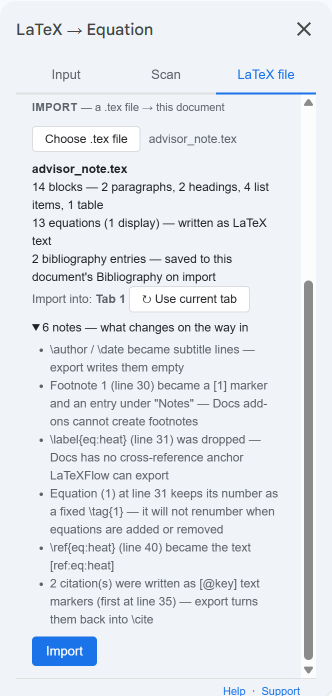
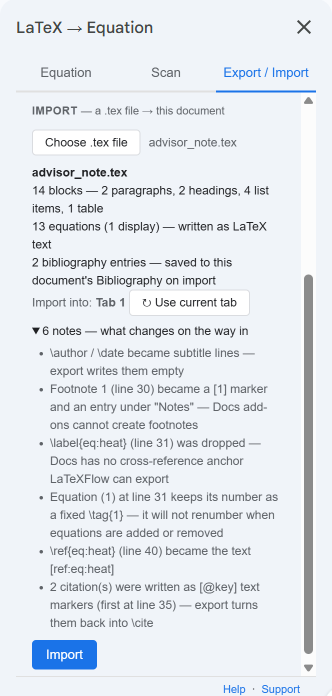
img(11-08): 04-after-scan added (Scan > Convert All, 13/13), 02-import-pick re-shot on v17 (Export / Import tab) - R182
Claude-Session: https://claude.ai/code/session_01WtnKZasBhqLtdkMYmNon2T

diff --git a/_posts/2026-11-08-open-tex-file-in-google-docs.md b/_posts/2026-11-08-open-tex-file-in-google-docs.md
@@ -9,7 +9,7 @@ description: "지도교수님이나 공저자가 .tex 파일을 보냈는데 나
 ---
 <!-- R138: updated for v16 (tab names, Continue import, faster Import, Revert all). R180: v16 live 10-30, v17 live 11-02 -
      percent progress + large-file notice (R146/R148), Revert all = whole tab, Revert to LaTeX = dragged range (R167).
-     04-after-scan.png still TODO (web). -->
+     R182: 02-import-pick re-shot on v17, 04-after-scan added. -->
 
 
 지도교수님이 검토 메모를 `.tex` 파일로 보내셨습니다. 열어 보면 백슬래시와 중괄호가 가득하고, 댓글을 달 곳도 마땅치 않습니다. Overleaf 에 올려서 PDF 를 보며 따로 메모하는 방법도 있지만, 연구실이 구글 문서로 일한다면 **그 파일을 구글 문서로 열어** 문장 옆에 바로 댓글을 다는 편이 빠릅니다.
@@ -71,7 +71,7 @@ description: "지도교수님이나 공저자가 .tex 파일을 보냈는데 나
 
 글을 다 고쳤거나, 읽는 사람에게 수식 모양을 보여 주고 싶으면 LaTeXFlow 의 **Scan** 탭(무료)에서 **Scan Document** › **Convert All** 을 누릅니다. LaTeX 글자가 수식 그림으로 바뀌고, 표 안의 수식과 행렬도 바뀝니다. 디스플레이 수식은 그림이 작은 크기로 왼쪽에 붙으니, 필요하면 가운데 정렬 버튼으로 맞춥니다.
 
-<!-- TODO image (web pane): the same document after Scan › Convert All — rendered equations incl. the matrix in the bullet. File: /assets/img/posts/2026-10-31/04-after-scan.png -->
+![Scan › Convert All 뒤의 같은 문서: [0,1] 같은 본문 수식, 번호 (1) 이 붙은 열방정식, 해 u(x,t), 격자 간격 h 와 비율 r, 표 안의 1/10 · 2.1×10⁻³ 같은 값, 글머리 목록의 2×2 행렬이 모두 수식 그림으로 바뀌었고 [@evans2010, p. 45] 인용 표시와 Notes 의 [1] 각주는 그대로](/assets/img/posts/2026-10-31/04-after-scan.png){: width="600" }
 
 수식 그림 안에는 LaTeX 원문이 저장되어 있어서, 다시 고칠 때는 **Revert to LaTeX** 로 원문으로 되돌리고, 다시 LaTeX 로 내보낼 때는 원문이 그대로 나옵니다. 여러 개를 한꺼번에 되돌리려면 그 부분을 드래그해 선택하고 **Revert to LaTeX** 를 누르면 선택 안의 수식 그림이 모두 돌아옵니다. 탭 전체를 되돌리는 **Revert all** 은 몇 개를 바꿀지 먼저 묻습니다. 되돌린 수식은 처음 쓴 구분자(`\[`, `$` 등) 그대로 돌아옵니다.
 
